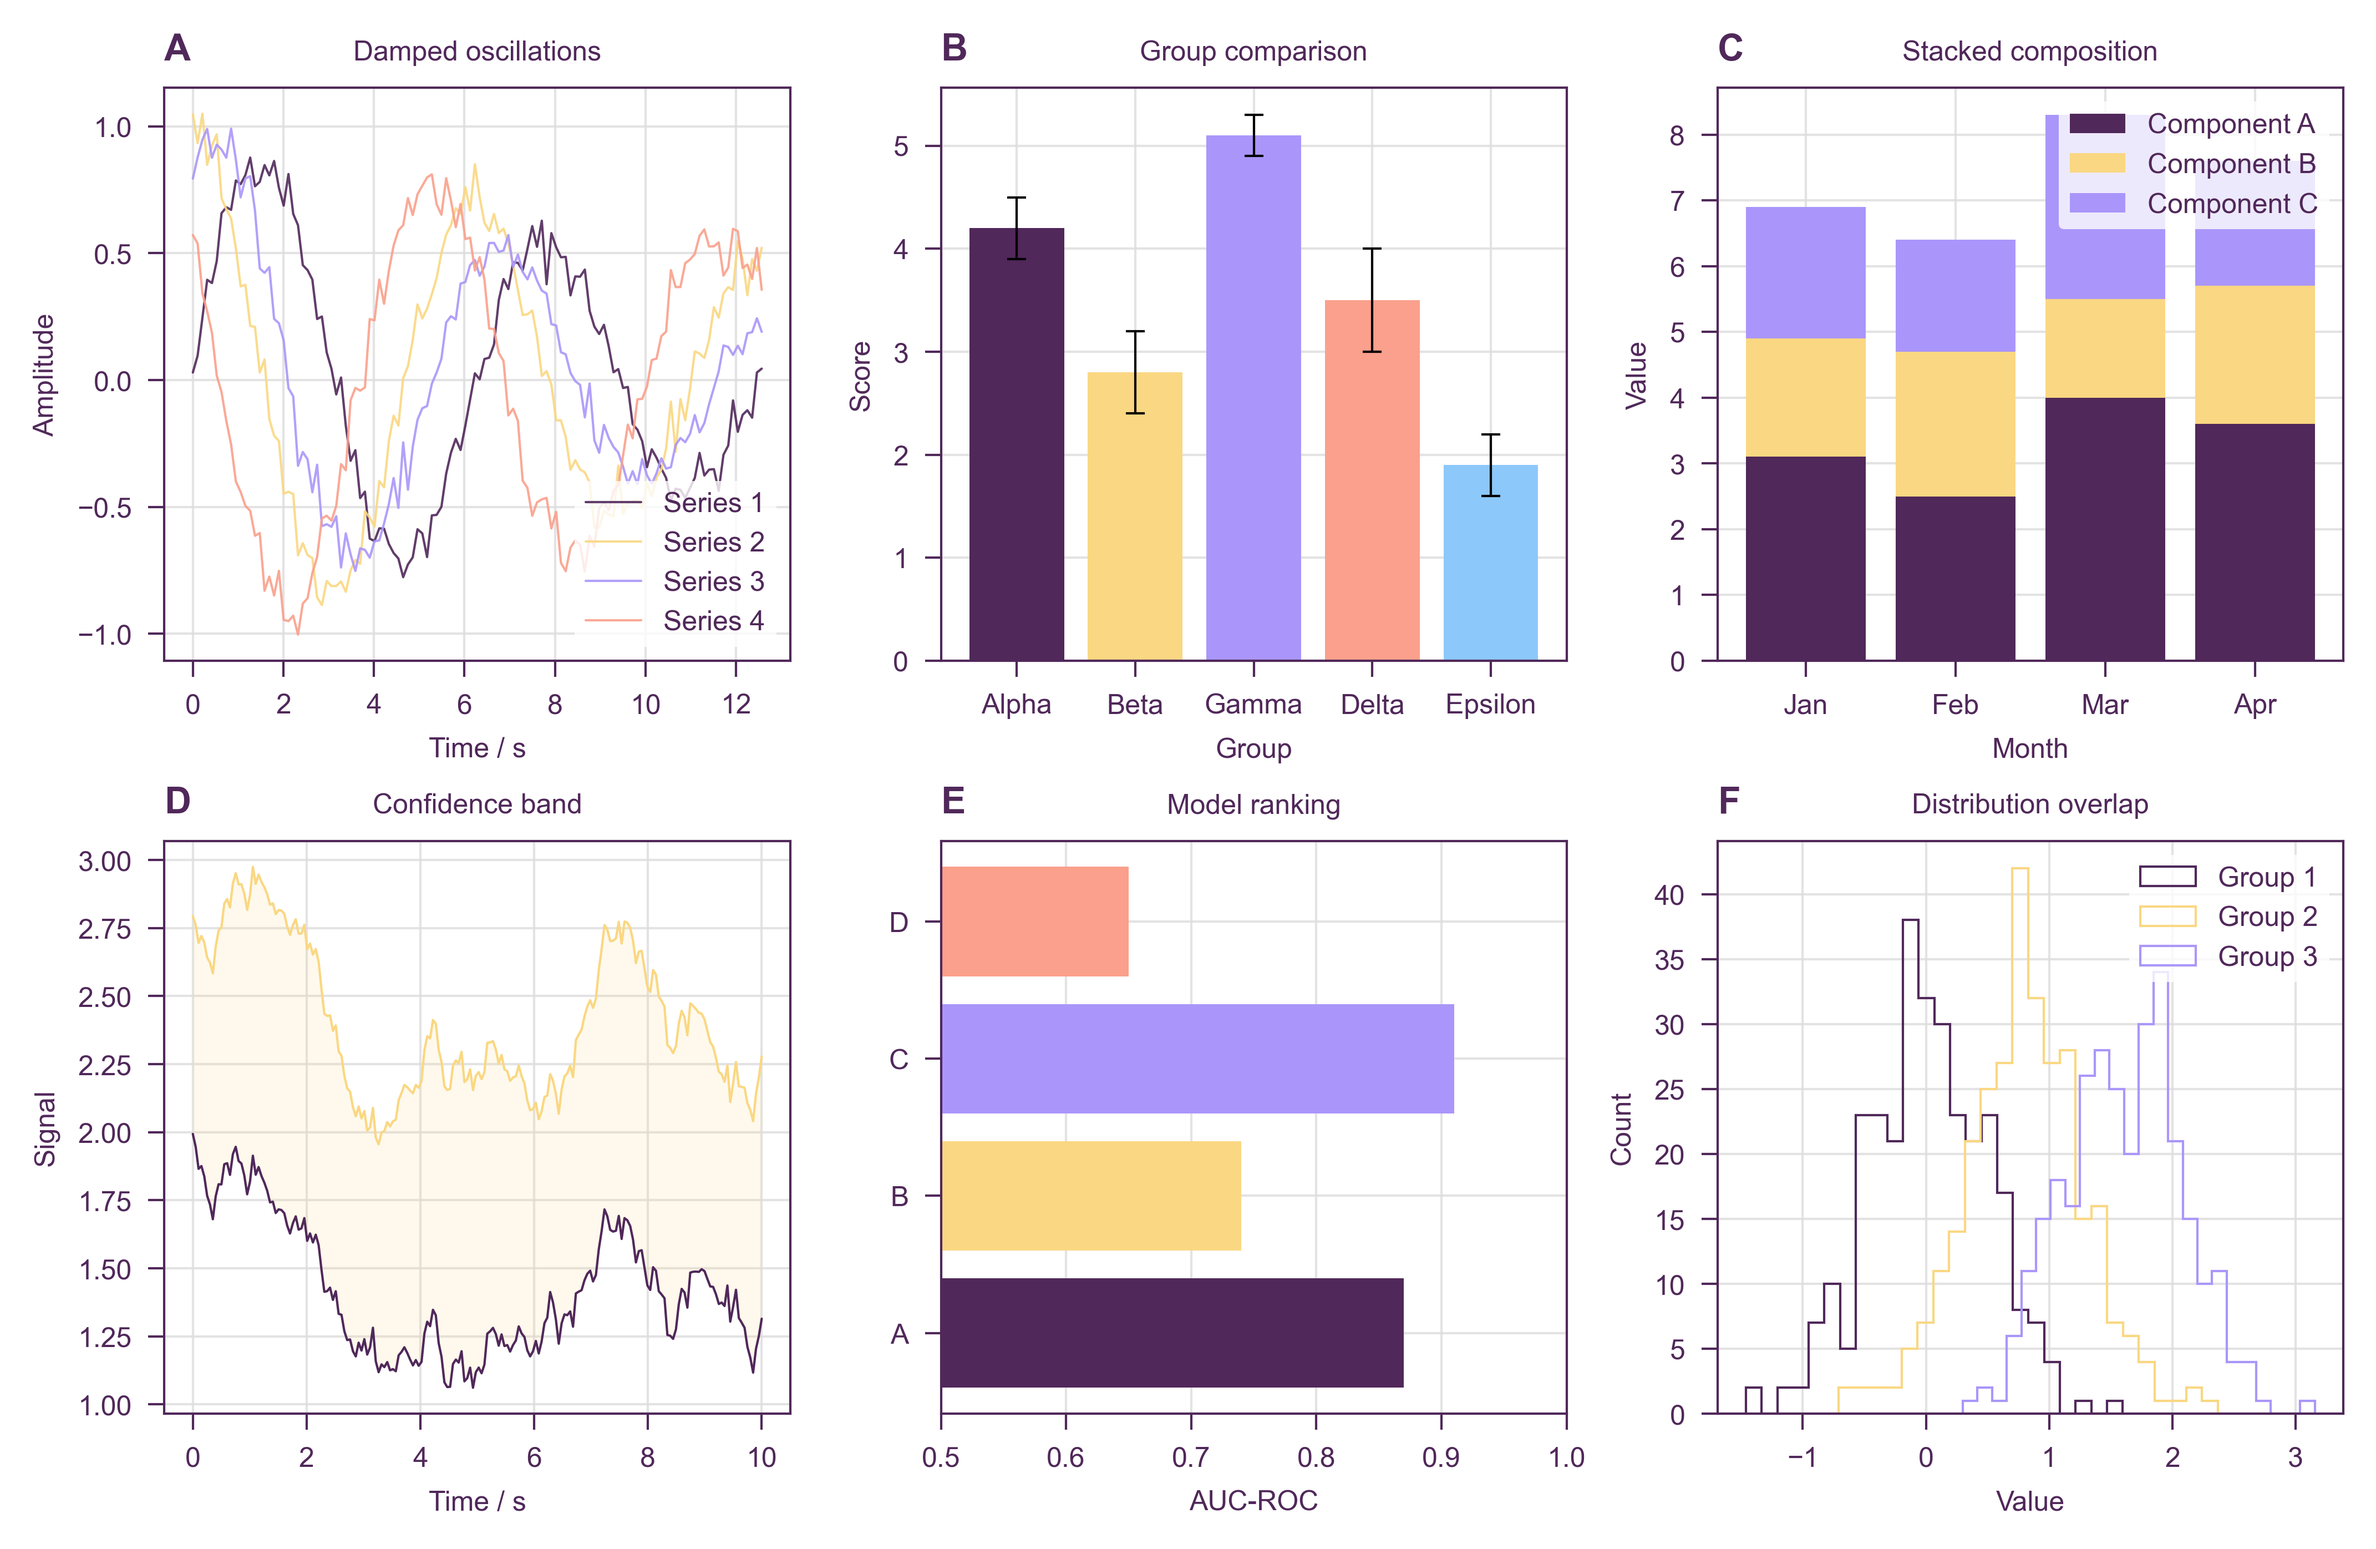
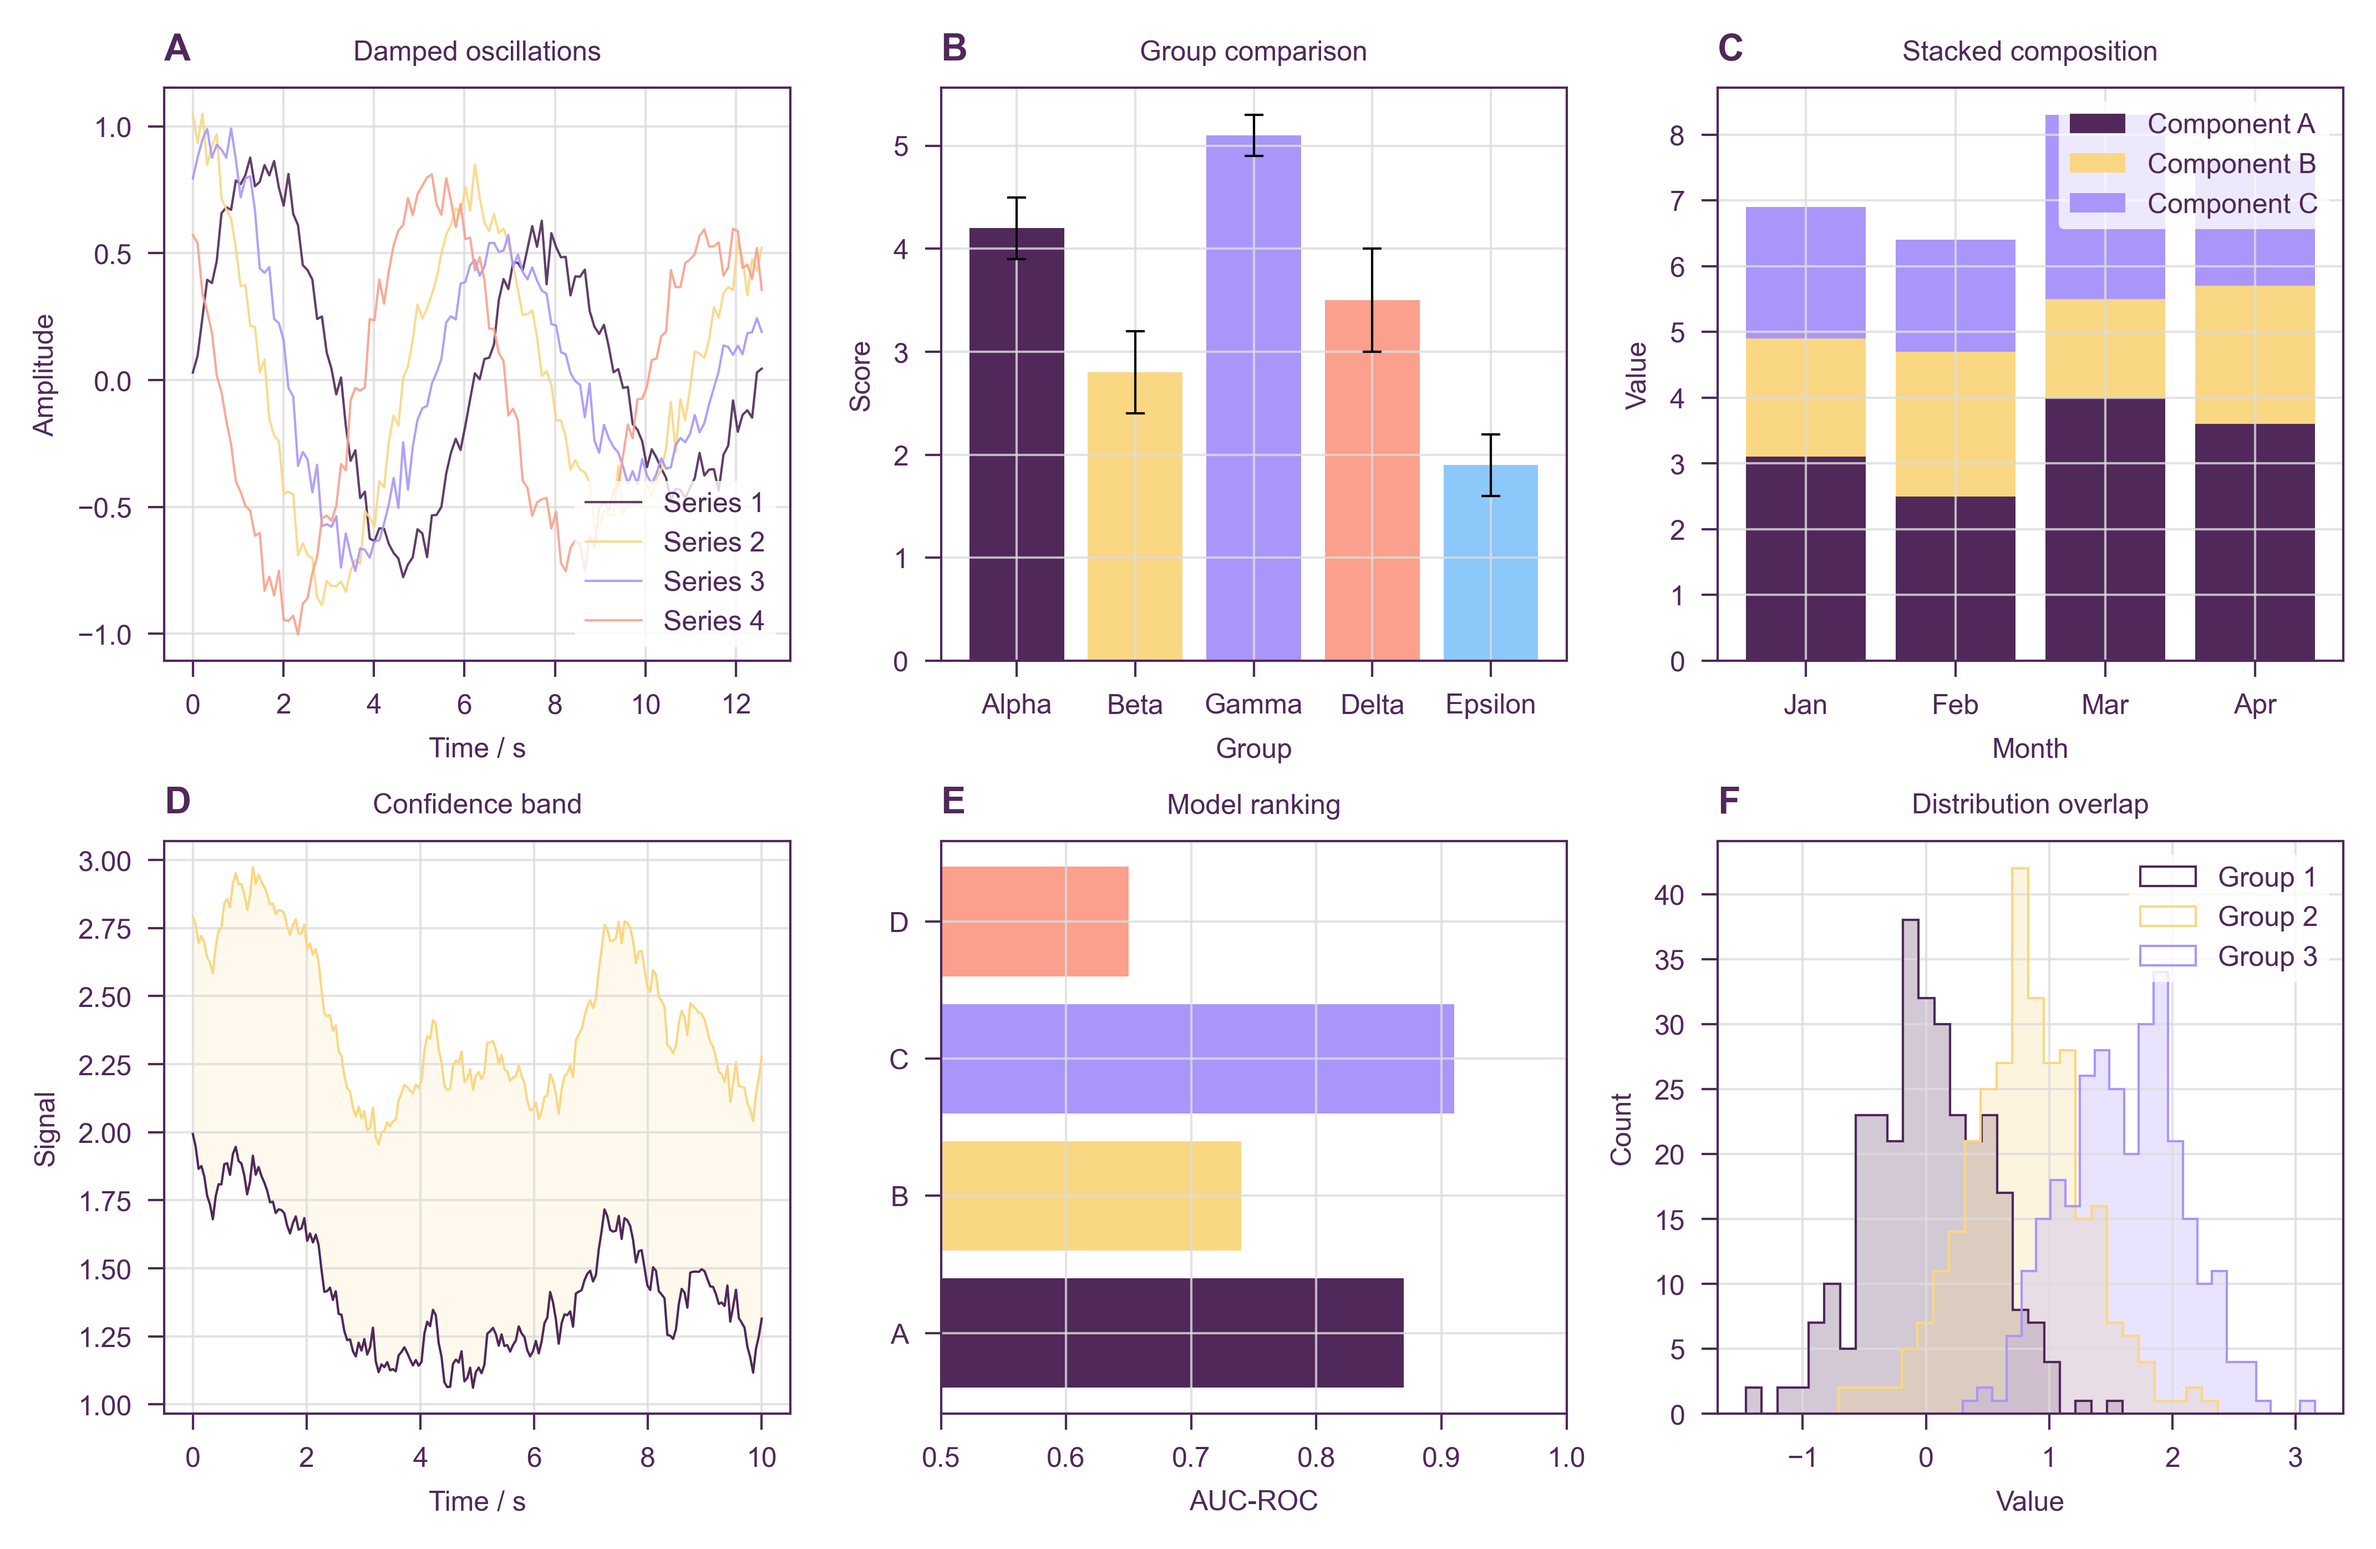
Add filled alpha to histogram distributions; trim README palette example

Changed region(s): [[0.7451, 0.5609, 0.9624, 0.9348]]

diff --git a/make_demo.py b/make_demo.py
@@ -106,8 +106,8 @@ def make_grid(style, outpath):
     c4 = pal.get(3)
     for j, col in enumerate(c4):
         data = np.random.normal(loc=j * 0.8, scale=0.5, size=300)
-        ax.hist(data, bins=24, histtype="step", color=col,
-                linewidth=lw, label=f"Group {j+1}")
+        ax.hist(data, bins=24, histtype="stepfilled", color=col, alpha=0.25, linewidth=0)
+        ax.hist(data, bins=24, histtype="step", color=col, linewidth=lw, label=f"Group {j+1}")
     ax.set_xlabel("Value")
     ax.set_ylabel("Count")
     ax.legend(loc="upper right")

diff --git a/README.md b/README.md
@@ -109,15 +109,11 @@ nc = stylia.NamedColors()   # ArticleColors or ErsiliaColors depending on set_st
 ```python
 from stylia import CategoricalPalette
 
-pal = CategoricalPalette()              # default: npg
-pal = CategoricalPalette("ersilia")
-pal = CategoricalPalette("okabe")       # colorblind-safe
-pal = CategoricalPalette("tol")         # colorblind-safe, ≤7
-pal = CategoricalPalette("pastel")
+pal = CategoricalPalette()       # "npg" (default), "ersilia", "okabe", "tol", "pastel"
 
-colors = pal.get(5)     # 5 maximally distinguishable colors
-colors = pal.get(20)    # >palette size: interpolated as a colormap
-color  = pal.next()     # draw one (advances internal counter)
+colors = pal.get(5)              # 5 maximally distinguishable colors
+colors = pal.get(20)             # >palette size: interpolated as a colormap
+color  = pal.next()              # draw one at a time (advances internal counter)
 ```
 
 **npg** — redesigned for maximum hue coverage
